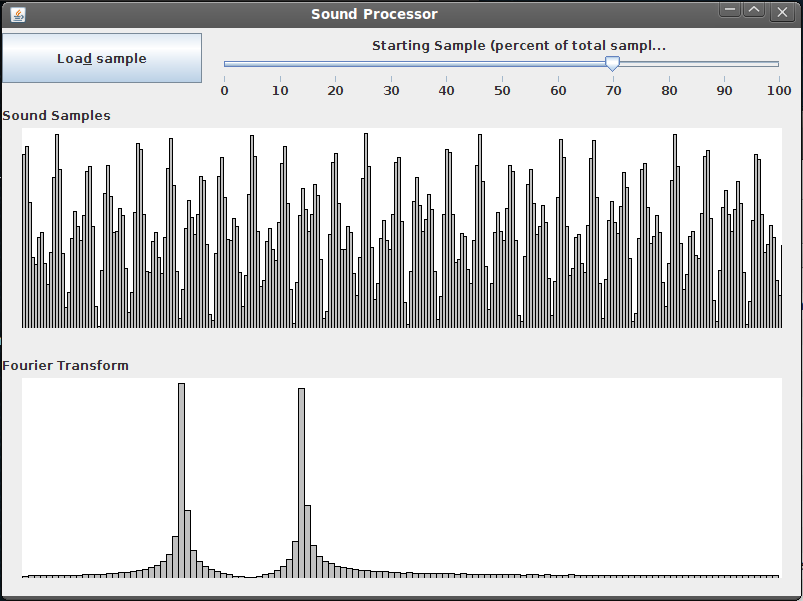
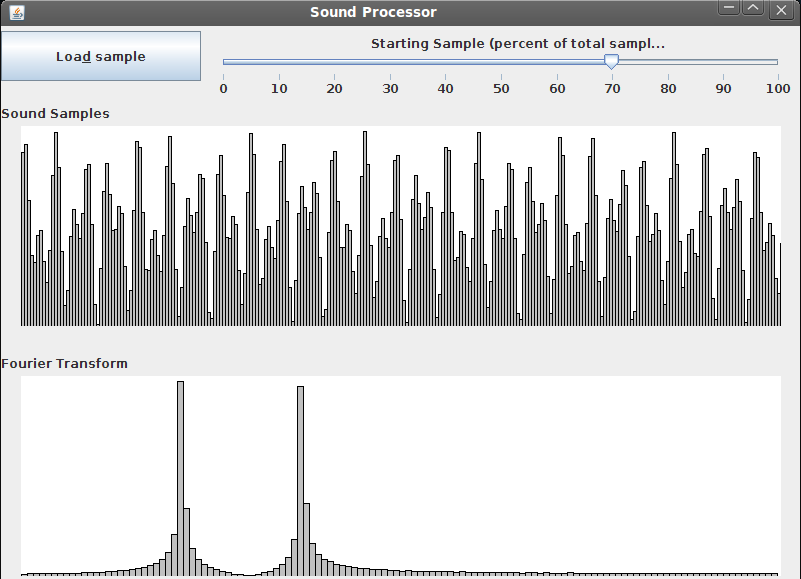
Added new portfolio pictures and information.

Changed region(s): [[0.0, 0.0622, 1.0, 1.0], [0.0, 0.0, 1.0, 0.0622], [0.3745, 0.6528, 0.4057, 0.6839]]

diff --git a/index.html b/index.html
@@ -74,7 +74,7 @@
         <div class="container">
             <div class="row">
                 <div class="col-lg-12">
-                    <img class="img-responsive" src="img/mp-logo.png" alt="">
+                    <img class="img-responsive" src="img/profile-mp.png" alt="">
                     <div class="intro-text">
                         <span class="name">Michael Patterson</span>
                         <hr class="star-light">
@@ -105,7 +105,7 @@
                                 <p>C, Java, JNI</p>
                             </div>
                         </div>
-                        <img src="img/portfolio/cabin.png" class="img-responsive" alt="">
+                        <img src="img/portfolio/SoundProcessor.png" class="img-responsive" alt="">
                     </a>
                 </div>
                 <div class="col-sm-4 portfolio-item">
@@ -117,7 +117,7 @@
                                 <p>VHDL, MIPS Assembly</p>
                             </div>
                         </div>
-                        <img src="img/portfolio/cake.png" class="img-responsive" alt="">
+                        <img src="img/portfolio/mips.png" class="img-responsive" alt="">
                     </a>
                 </div>
                 <div class="col-sm-4 portfolio-item">
@@ -125,11 +125,11 @@
                         <div class="caption">
                             <div class="caption-content">
                                 <i class="fa fa-search-plus fa-3x"></i>
-                                <p>Project Euler Sovlers</p>
+                                <p>Project Euler Solvers</p>
                                 <p>Java, C++, Python, C</p>
                             </div>
                         </div>
-                        <img src="img/portfolio/circus.png" class="img-responsive" alt="">
+                        <img src="img/portfolio/project-euler.png" class="img-responsive" alt="">
                     </a>
                 </div>
                 <div class="col-sm-4 portfolio-item">
@@ -177,7 +177,7 @@
                                 <p>HTML, CSS, JS, PHP, C#</p>
                             </div>
                         </div>
-                        <img src="img/portfolio/cake.png" class="img-responsive" alt="">
+                        <img src="img/portfolio/muna.png" class="img-responsive" alt="">
                     </a>
                 </div>
                 <div class="col-sm-4 portfolio-item">
@@ -328,21 +328,23 @@
                 <div class="row">
                     <div class="col-lg-8 col-lg-offset-2">
                         <div class="modal-body">
-                            <h2>Project Title</h2>
+                            <h2>Sound Processing</h2>
                             <hr class="star-primary">
                             <img src="img/portfolio/SoundProcessor.png" class="img-responsive img-centered" alt="">
-                            <p>This is a school project I completed for my "Advanced Programming in C and C++" class. It consists of several different pieces, all related to processing digital sounds files. See senior portfolio for a long description. TODO: Finish this.</p>
+                            <p>This project consisted of several different pieces, but they all were closely related to processing digital sound. The main objective of the overall project was to be able to generate sound files in a specific format and then do various types of processing on these sound files including using the Fourier Transform to determine the various frequency components making up the sound sample. This is similar to the way in which telephone exchanges work, so we also were required to generate the correct sound file for a given sequence of key presses. This sound file could be fed into our program that utilized the Fourier Transform and then analyzed to reproduce the original sequence of telephone key presses. Also, a final part to this project required that we write a GUI in Java which displayed multiple graphs relatd to the sound sample in a given input file. This GUI was required to use JNI to use the functionality we had developed in the C language in the other parts of the project.</p> 
+                            <p>This assignment was completed on Linux, so I learned how to use that operating system and the tool chain used to create C programs. I learned a great deal about file input and output and various data formats. This project also forced me to become extremely comfortable with pointers, memory allocation, and the inner workings of the C language. Not only that, but implementing the Fourier Transform in C also taught me a great deal about how to go from a mathematical formula to an algorithm and finally to working code.</p>
+                            <p>In addition to all these technical details and many more, I also learned how to solve complex problems by breaking them down into manageable chunks. When faced with the full complexity of the program, it was daunting to even know how to begin. However, by taking an organized approach and intentionally making my code reusable, I was able to complete this project, meet all the requirements, and earn a perfect score of 1900/1900.</p>
                             <ul class="list-inline item-details">
-                                <li>Client:
-                                    <strong><a href="http://startbootstrap.com">Start Bootstrap</a>
+                                <li>Source Code:
+                                    <strong><a href="https://github.com/mjpatter88/SoundProcessing">GitHub Repo</a>
                                     </strong>
                                 </li>
                                 <li>Date:
-                                    <strong><a href="http://startbootstrap.com">April 2014</a>
+                                    <strong>Fall 2009
                                     </strong>
                                 </li>
-                                <li>Service:
-                                    <strong><a href="http://startbootstrap.com">Web Development</a>
+                                <li>Technologies:
+                                    <strong>C, Java, JNI, Make
                                     </strong>
                                 </li>
                             </ul>
@@ -365,21 +367,21 @@
                 <div class="row">
                     <div class="col-lg-8 col-lg-offset-2">
                         <div class="modal-body">
-                            <h2>Project Title</h2>
+                            <h2>MIPS Processor</h2>
                             <hr class="star-primary">
-                            <img src="img/portfolio/cake.png" class="img-responsive img-centered" alt="">
-                            <p>Use this area of the page to describe your project. The icon above is part of a free icon set by <a href="https://sellfy.com/p/8Q9P/jV3VZ/">Flat Icons</a>. On their website, you can download their free set with 16 icons, or you can purchase the entire set with 146 icons for only $12!</p>
+                            <img src="img/portfolio/mips.png" class="img-responsive img-centered" alt="">
+                            <p>This is a school project I completed for my "Processor Design and Organization" class. It consists of a functional MIPS processor implemented in VHDL. Along with the working hardware, I also developed a system to compile MIPS assembly code into machine code and load a program onto my custom processor. I wrote several programs in MIPS assembly to validate my design.</p>
                             <ul class="list-inline item-details">
-                                <li>Client:
-                                    <strong><a href="http://startbootstrap.com">Start Bootstrap</a>
+                                <li>Source Code:
+                                    <strong>Private
                                     </strong>
                                 </li>
                                 <li>Date:
-                                    <strong><a href="http://startbootstrap.com">April 2014</a>
+                                    <strong>Spring 2011
                                     </strong>
                                 </li>
-                                <li>Service:
-                                    <strong><a href="http://startbootstrap.com">Web Development</a>
+                                <li>Technologies:
+                                    <strong>VHDL, MIPS Assembly, ModelSim
                                     </strong>
                                 </li>
                             </ul>
@@ -402,21 +404,21 @@
                 <div class="row">
                     <div class="col-lg-8 col-lg-offset-2">
                         <div class="modal-body">
-                            <h2>Project Title</h2>
+                            <h2>Project Euler Solvers</h2>
                             <hr class="star-primary">
-                            <img src="img/portfolio/circus.png" class="img-responsive img-centered" alt="">
-                            <p>Use this area of the page to describe your project. The icon above is part of a free icon set by <a href="https://sellfy.com/p/8Q9P/jV3VZ/">Flat Icons</a>. On their website, you can download their free set with 16 icons, or you can purchase the entire set with 146 icons for only $12!</p>
+                            <img src="img/portfolio/project-euler-lg.png" class="img-responsive img-centered" alt="">
+                            <p><a href="https://ProjectEuler.net">ProjectEuler.net</a> is a series of challenging mathematical and computer programming problems. In my spare time, I occasionally work through a few to challenge myself, learn new things, and develop my problem solving ability. I've solved 24 so far and would like to solve more in the future.</p>
                             <ul class="list-inline item-details">
-                                <li>Client:
-                                    <strong><a href="http://startbootstrap.com">Start Bootstrap</a>
+                                <li>Source Code:
+                                    <strong><a href="https://github.com/mjpatter88/ProjEuler">Github Repo</a>
                                     </strong>
                                 </li>
                                 <li>Date:
-                                    <strong><a href="http://startbootstrap.com">April 2014</a>
+                                    <strong>Ongoing
                                     </strong>
                                 </li>
-                                <li>Service:
-                                    <strong><a href="http://startbootstrap.com">Web Development</a>
+                                <li>Technologies:
+                                    <strong>Java, C++, Python, C
                                     </strong>
                                 </li>
                             </ul>
@@ -550,21 +552,21 @@
                 <div class="row">
                     <div class="col-lg-8 col-lg-offset-2">
                         <div class="modal-body">
-                            <h2>Project Title</h2>
+                            <h2>Muna</h2>
                             <hr class="star-primary">
-                            <img src="img/portfolio/submarine.png" class="img-responsive img-centered" alt="">
-                            <p>Use this area of the page to describe your project. The icon above is part of a free icon set by <a href="https://sellfy.com/p/8Q9P/jV3VZ/">Flat Icons</a>. On their website, you can download their free set with 16 icons, or you can purchase the entire set with 146 icons for only $12!</p>
+                            <img src="img/portfolio/muna.png" class="img-responsive img-centered" alt="">
+                            <p>This is a mobile, online, and desktop application that supports copying/pasting of text, pictures, videos, and links between devices. It integrates with Facebook to allow quick and seamless authentication. I worked with four team members to complete this.</p>
                             <ul class="list-inline item-details">
-                                <li>Client:
-                                    <strong><a href="http://startbootstrap.com">Start Bootstrap</a>
+                                <li>Source Code:
+                                    <strong>Private
                                     </strong>
                                 </li>
                                 <li>Date:
-                                    <strong><a href="http://startbootstrap.com">April 2014</a>
+                                    <strong>Spring 2013
                                     </strong>
                                 </li>
-                                <li>Service:
-                                    <strong><a href="http://startbootstrap.com">Web Development</a>
+                                <li>Technologies:
+                                    <strong>HTML, JS, PHP, .NET, SQL
                                     </strong>
                                 </li>
                             </ul>
